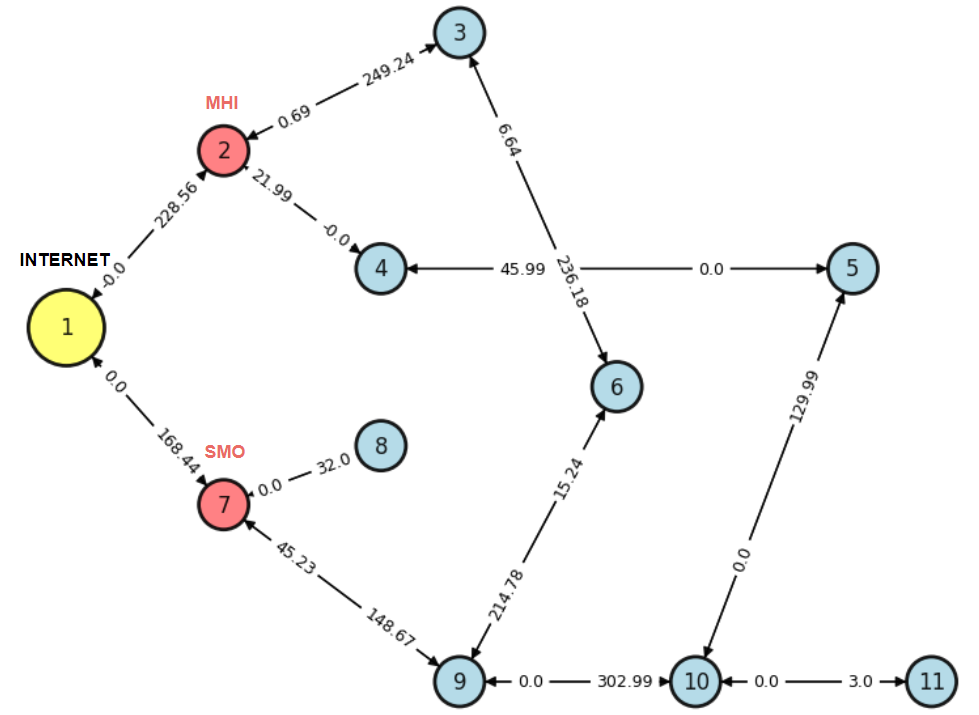
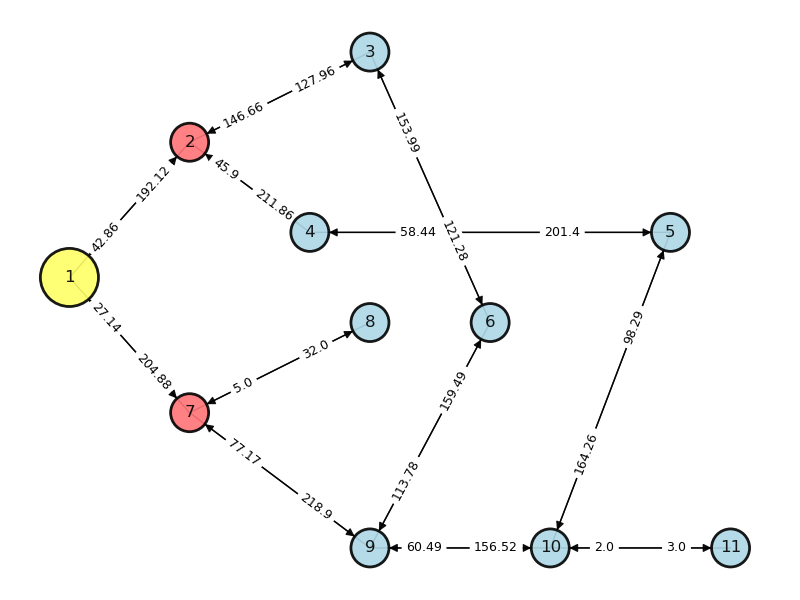
Finished algorithm and now have generic max flow method and arbitrary splits between any gateways

Changed region(s): [[0.0, 0.0, 1.0, 0.99], [0.4062, 0.48, 0.5, 0.57]]

diff --git a/tegola/cloud_te_tutorial/results.py b/tegola/cloud_te_tutorial/results.py
@@ -107,7 +107,8 @@ class Solver:
 
     def remove_flow(self, prev_allocations):
         for alloc in prev_allocations:
-            self.network.edges[alloc].capacity -= prev_allocations.get(alloc)
+            if self.network.edges[alloc].capacity != 0:
+                self.network.edges[alloc].capacity -= prev_allocations.get(alloc)
 
 
 
@@ -115,7 +116,7 @@ class Solver:
 def run_cycle(source_sink, direction, prev_allocations, gateway_proportions):
 
     # Setup the networkrow = new_array[0][3:]
-    net = Solver("tegola", "topology.txt")
+    net = Solver("tegola", direction + "_topology.txt")
     net.setup(direction + "_demand.txt")
 
     # If this is the second iteration, remove the allocated flows from the capacities
@@ -147,17 +148,52 @@ def arbitrary_splits(source_sink, direction, gateway_proportions, net):
     for gateway in gateway_proportions:
         net.network.edges[gateway].capacity = total_demand * (gateway_proportions.get(gateway) / 100)
 
+# Run both iterations of the algorithm to produce the final allocations for any arbitrary split
+def algorithm(source_sink, gateway_proportions):
+    first_allocations = run_cycle(1, "downstream", {}, gateway_proportions)
 
-if __name__ == "__main__":
+    # get reverse direction proportions
+    second_proportions = {}
+    for item in gateway_proportions:
+        second_proportions[(item[1], item[0])] = gateway_proportions.get(item)
 
-    first_allocations = run_cycle(1, "downstream", {}, {('1','2'): 20, ('1','7'): 80})
-    second_allocations = run_cycle(1, "upstream", first_allocations, {('2','1'): 20, ('7','1'): 80})
+    second_allocations = run_cycle(1, "upstream", first_allocations, second_proportions)
 
     final_alloc = {}
     for alloc in first_allocations:
         final_alloc[alloc] = np.round(first_allocations.get(alloc) + second_allocations.get(alloc), 2)
 
-    net = Solver("tegola", "topology.txt")
+    net = Solver("tegola", "downstream_topology.txt")
     net.network.draw(final_alloc)
-    print(final_alloc)
-    #base.network.draw(new_allocations)
+
+    return final_alloc
+
+# Gets basic allocations
+def generic_max_flow(net_name):
+    up_net = Solver(net_name, "upstream_topology.txt")
+    up_net.setup("upstream_demand.txt")
+    up_net.basic_solve()
+    up_net.get_allocations()
+    upstream_alloc = up_net.allocations
+
+    down_net = Solver(net_name, "downstream_topology.txt")
+    down_net.setup("downstream_demand.txt")
+    down_net.remove_flow(upstream_alloc)
+    down_net.basic_solve()
+    down_net.get_allocations()
+    downstream_alloc = down_net.allocations
+    
+
+    final_alloc = {}
+    for alloc in upstream_alloc:
+        final_alloc[alloc] = np.round(upstream_alloc.get(alloc) + downstream_alloc.get(alloc), 2)
+
+    net = Solver("tegola", "downstream_topology.txt")
+    net.network.draw(final_alloc)
+
+
+if __name__ == "__main__":
+
+    #generic_max_flow("tegola")
+
+    alloc = algorithm(1, {('1','2'): 1, ('1','7'): 99})
